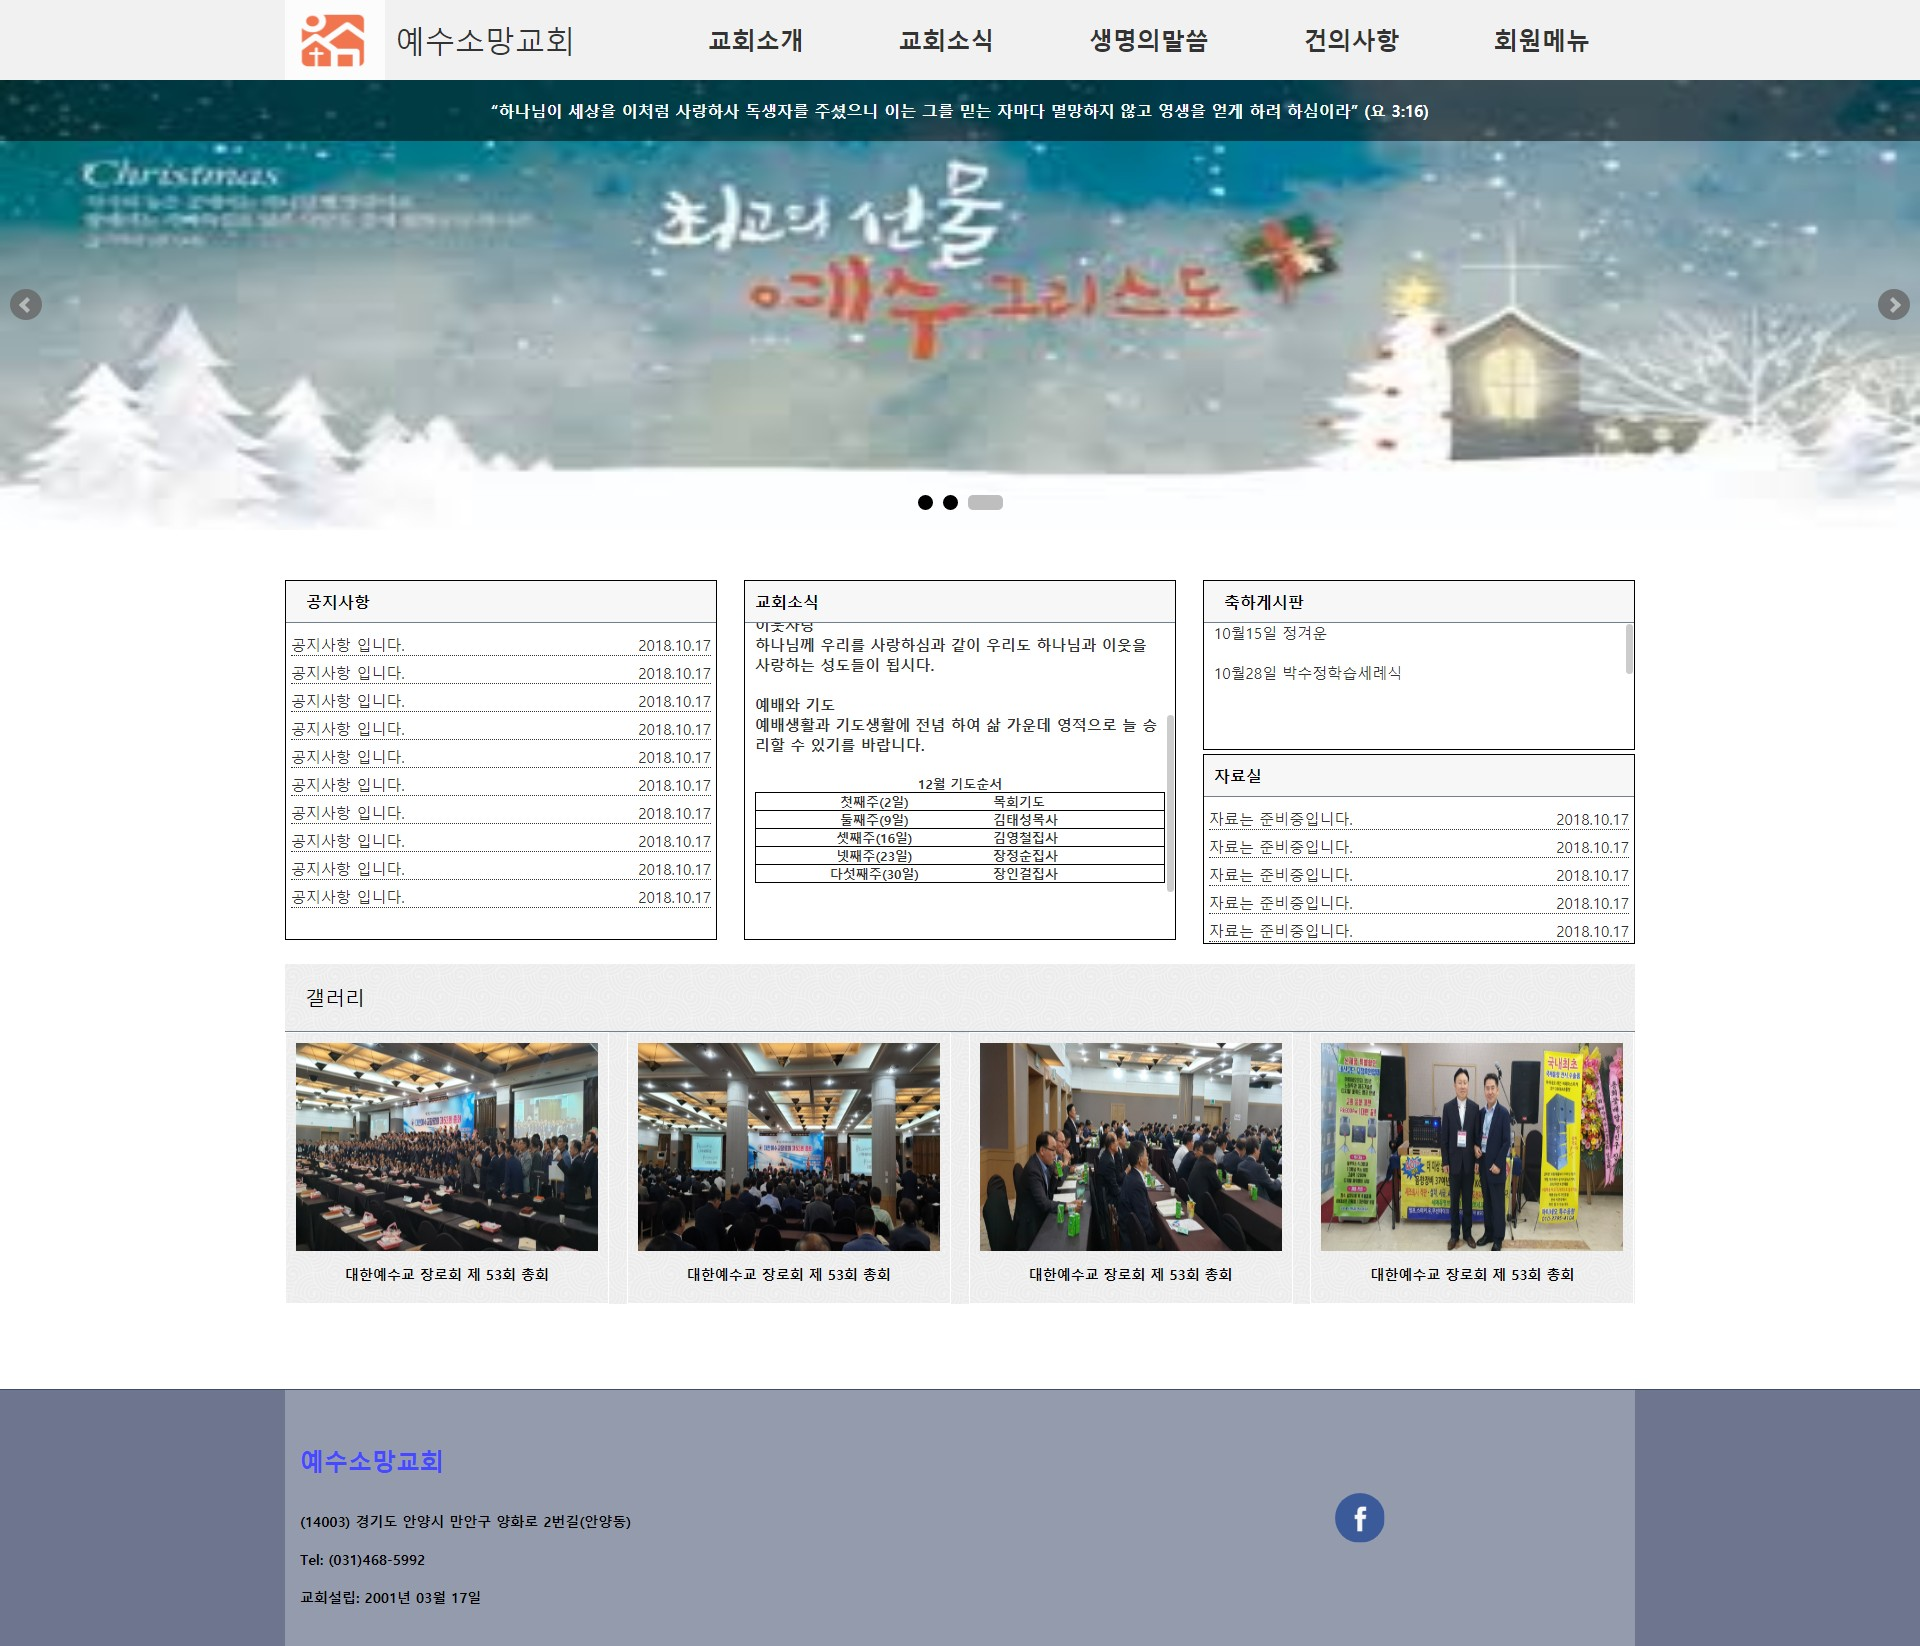
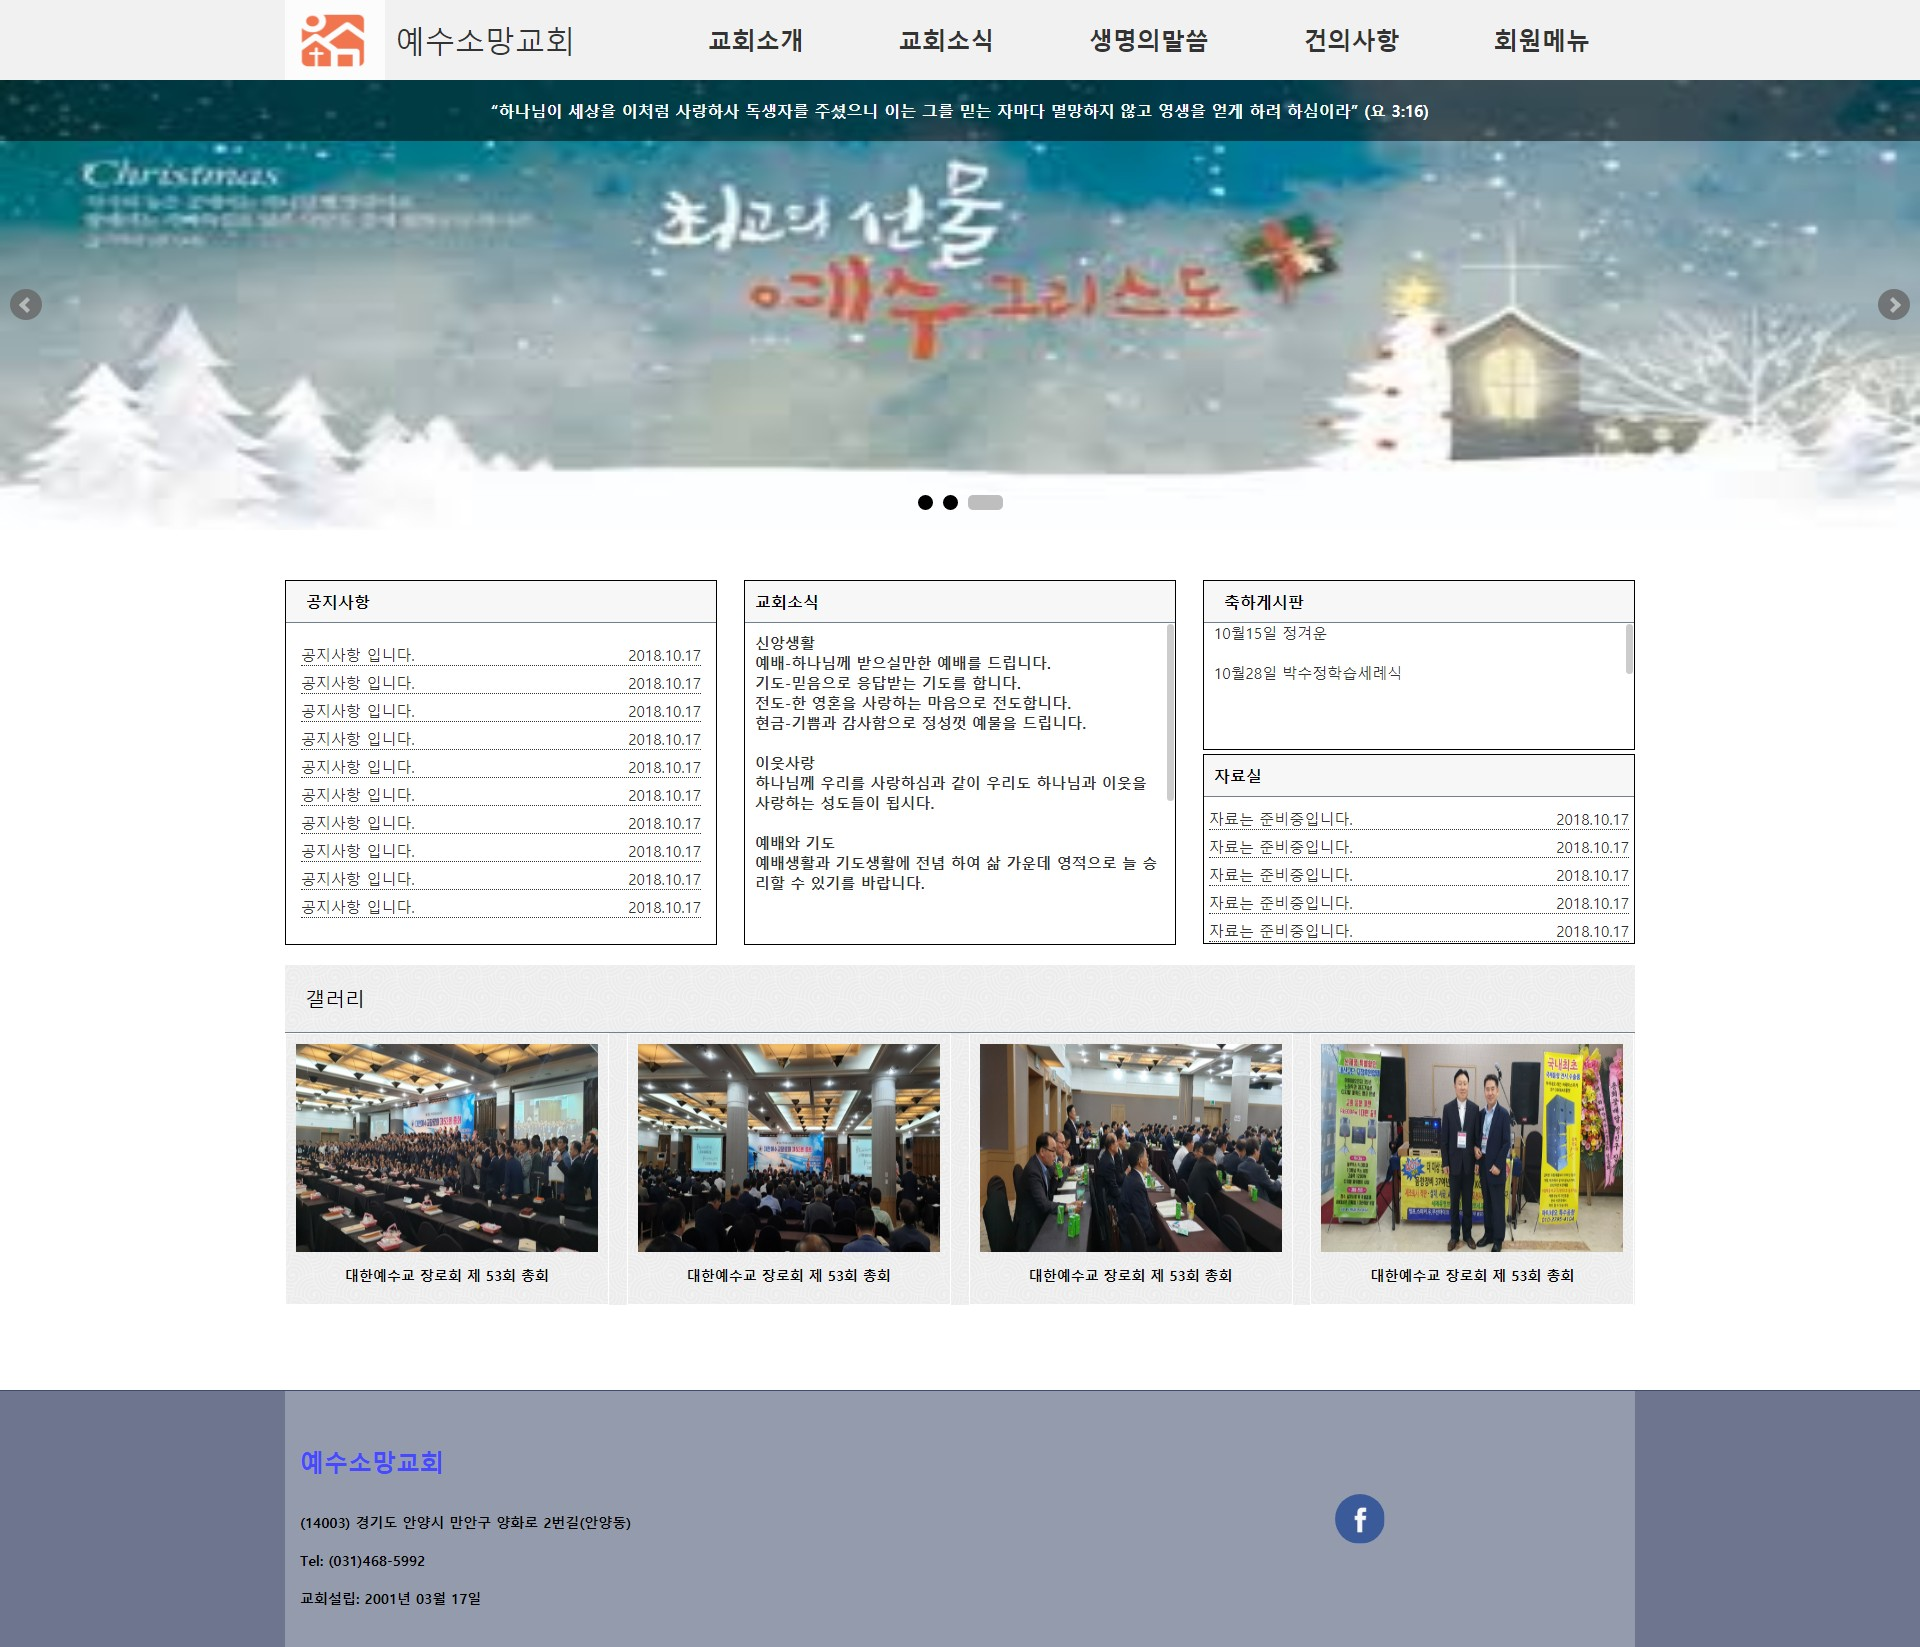
index

diff --git a/portfolio/ex2/css/index.css b/portfolio/ex2/css/index.css
@@ -200,17 +200,17 @@ body{
 .cstwrap .contents article{
 	float:left;
 	width:32%;
-	height:360px;
-	border: 1px solid black;
+	height: 365px;
 	background-color:white;
+	border: 1px solid black;
 }
 .cstwrap .contents article:first-child{
 	margin-left:0;
 }
 .cstwrap .contents article h2{
 	width: 100%;
-    padding: 10px;
-    background: rgb(247,247,247);
+	padding: 10px;
+	background: rgb(247,247,247);
 	border-bottom: 1px solid slategrey;
 }
 
@@ -220,7 +220,7 @@ body{
     background: white;
 }
 .contents1 .listgp1_1{
-	padding:5px;
+	padding: 15px;
 	font-size:15px;
 	font-weight:500;
 }
@@ -260,13 +260,14 @@ body{
 /* contents2 */
 .contents2{
 	margin-left:2%;
+	/* border: 1px solid black; */
 }
 .contents2 .listgp1_2{
 	overflow:auto;
 	height:270px;
 	padding: 10px;
-    font-size: 15px;
-    font-weight: 600;
+	font-size: 15px;
+	font-weight: 600;
 }
 #subtitle2 span{
 	font-size: 16px;
@@ -316,12 +317,13 @@ body{
 	float:right;
 	height: 170px;
 	margin-bottom:4px;
-    color: white;
+	color: white;
+	border: 1px solid black;
 }
 .contents3 .listgp1_3{
 	overflow:auto;
-    font-size: 15px;
-    font-weight: 500;
+	font-size: 15px;
+	font-weight: 500;
 }
 .contents3 .listgp1_3 li a span{
 	padding:10px;
@@ -348,8 +350,9 @@ body{
 }
 .contents4 .listgp1_4{
 	padding: 5px;
-    font-size: 15px;
-    font-weight: 500;
+	font-size: 15px;
+	font-weight: 500;
+	border: crimson;
 }
 .contents4 .listgp1_4 li{
 	position:relative;
